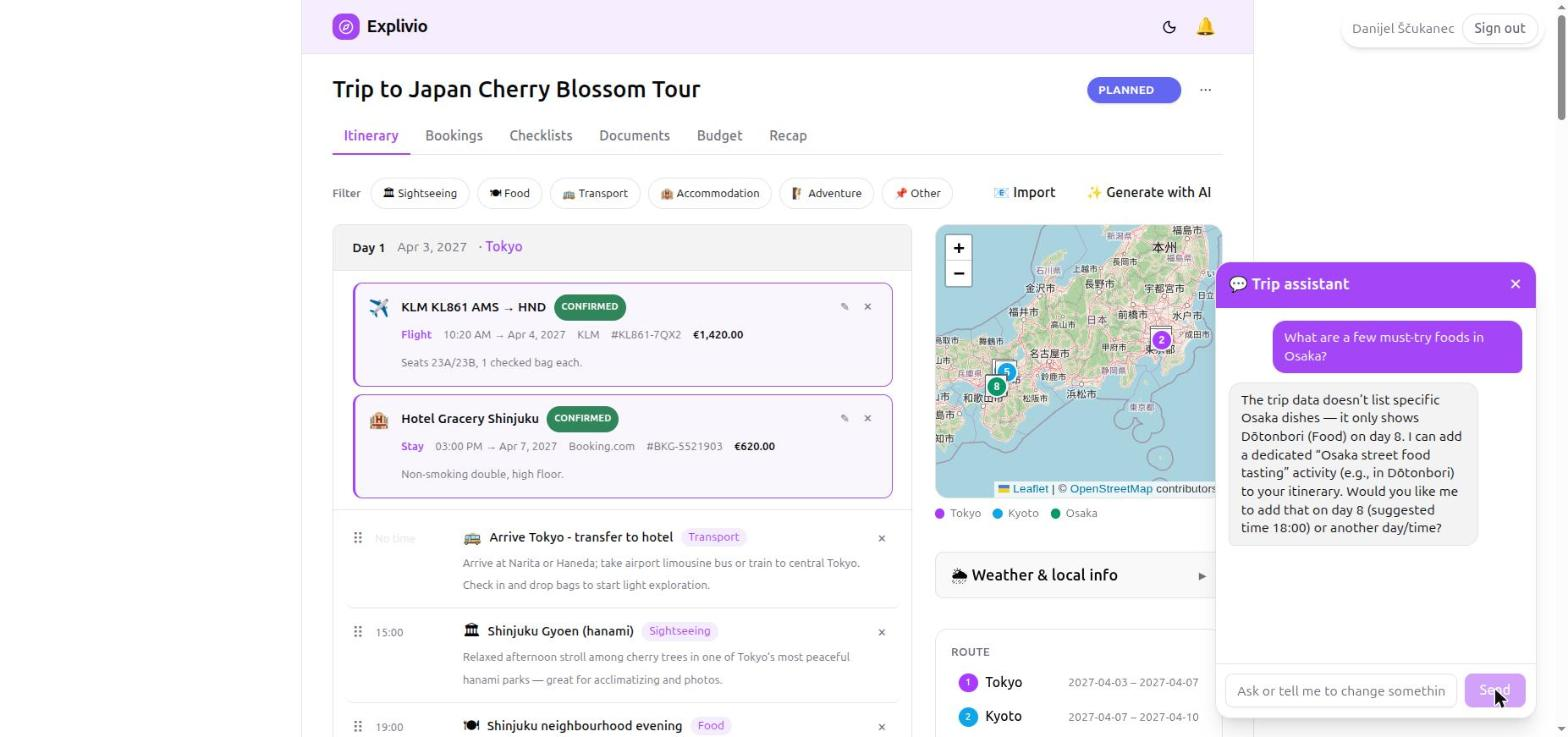
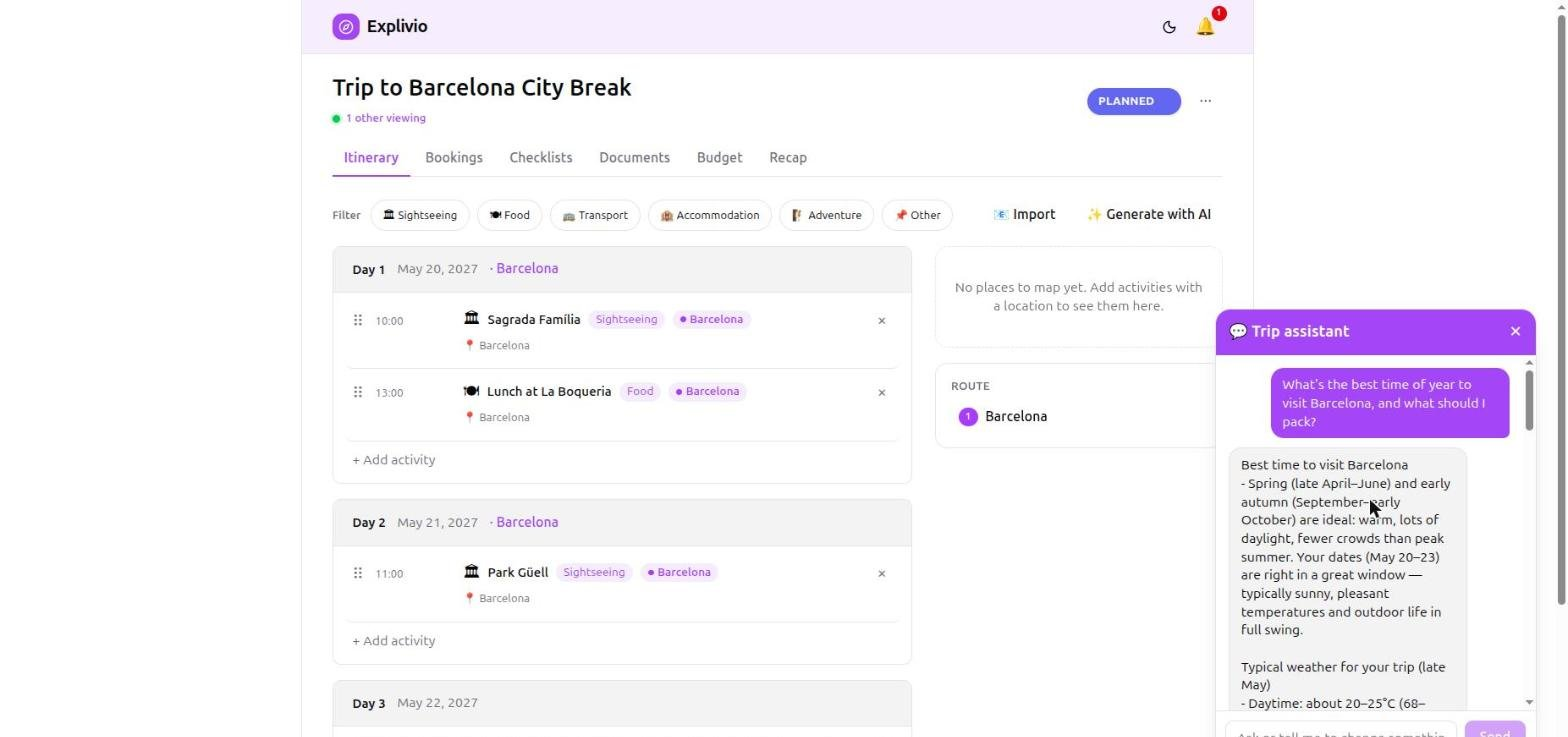
docs: add proper two-window collaboration GIF + refresh assistant screenshot
- Real-time collaboration demo restored to the README with a new GIF that
  shows two members side by side (Owner + Editor, labelled), both with the
  "others viewing" presence indicator: the Editor adds an activity and it
  appears instantly in the Owner's view via SignalR. Captured from two live
  sessions (the dev-user switch), not a mock-up.
- docs/USER-GUIDE.md web-assistant.jpg refreshed: the old shot predated the
  assistant general-knowledge fix (#20) and showed it deflecting. New shot
  shows it answering a travel question, grounded in the trip's dates.

diff --git a/README.md b/README.md
@@ -28,6 +28,14 @@ Chat with an assistant that both answers questions about the trip and **makes th
 
 ---
 
+## ✨ Demo — real-time collaboration
+
+Trips are shareable with role-based membership (Owner / Editor / Viewer). When one member edits a shared trip, the change lands **live** in everyone else's view — presence shows who's watching, and the itinerary updates with no refresh. The push is an immediate in-process `IHubContext` broadcast, deliberately **not** routed through the 5-second outbox.
+
+![Two members on one trip side by side — an activity added by the Editor appears instantly in the Owner's view](docs/assets/f15-realtime-collaboration.gif)
+
+---
+
 ## ✨ Demo — trip status lifecycle
 
 Every trip carries an explicit lifecycle status — **Draft, Planned, Active, Completed, or Cancelled** — set by the user independently of its dates. Changing it updates the colour-coded badge everywhere, and the trips list can be filtered by status.
